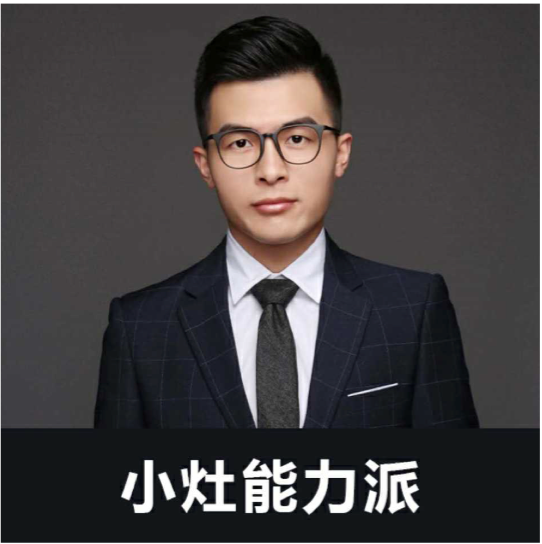
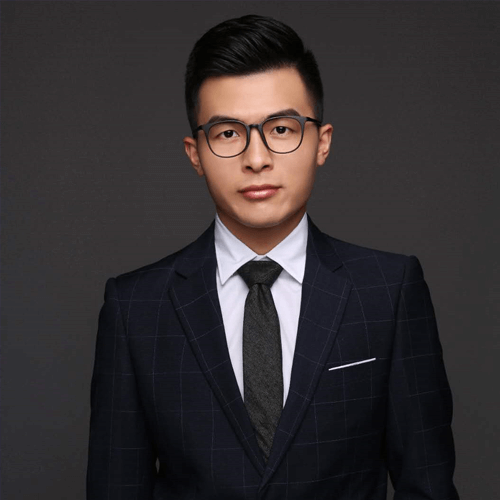
update: 添加图片 修改分享link #34

Changed region(s): [[0.0, 0.0, 1.0, 1.0], [0.63, 0.69, 0.75, 0.75], [0.39, 0.06, 0.42, 0.09]]

diff --git a/pages/payment/buygether.js b/pages/payment/buygether.js
@@ -131,8 +131,8 @@ export default class extends React.Component {
     let shareProp = {
       title: '邀请你和我一起参加线上学徒项目',
       desc: '6周全搞定：掌握实战技能+远程实习经历+探索职业兴趣+助教反馈指导',
-      link: 'https://rcwx.review.xiaozao.org/payment/buygether',
-      imgUrl: 'https://wx.xiaozao.org/static/img/abilitycollege/buyBg_1.png'
+      link: 'https://wx.xiaozao.org/payment/buygether',
+      imgUrl: 'https://wx.xiaozao.org/static/img/buygether/shareImg.png'
     }
     if (this.state.myGroupingId) {
       let nickname = encodeURI(encodeURI(this.nickname))
@@ -343,24 +343,6 @@ export default class extends React.Component {
     )
   }
 
-  renderBuyButton () {
-    if (this.state.myGroupingId === null) {
-      return (<div className='button'>
-        <Triangle
-          TriangleStyle={{top: '-8px', borderColor: 'transparent transparent #cba46b #cba46b'}}
-          style={{right: '60px', bottom: '-10px'}}>
-          团长开团立减10元
-        </Triangle>}
-        <Button style={this.buttonStyle} onClick={() => { this.buyMyGroup() }}>自己开团</Button>
-        <style jsx>{`
-        .button {
-          position: relative;
-        }
-      `}</style>
-      </div>)
-    }
-  }
-
   littleBuy = async (typeId, groupId, payInfo) => {
     // 1 调用小程序支付
     wxPay.payInit(payInfo)
@@ -557,7 +539,6 @@ export default class extends React.Component {
           justify-content: center;
         }
         .group-price div {
-          // flex-basis: 0;
           width: 70px;
         }
         .group-price span{
@@ -597,8 +578,8 @@ export default class extends React.Component {
   renderCourseInfo () {
     return (<div className='div-with-bottom'>
       {this.renderTitle('课程详情')}
-      <img src={'/static/img/buygether/intro_1.png'} />
-      <img src={'/static/img/buygether/intro_2.png'} />
+      <img src={'/static/img/buygether/intro_1.jpg'} />
+      <img src={'/static/img/buygether/intro_2.jpg'} />
       <style jsx>{`
         .div-with-bottom {
           padding-bottom: 10px;
@@ -685,11 +666,6 @@ export default class extends React.Component {
       bottom: '0px',
       backgroundColor: '#3e84e0'
     }
-    // let triangle = {
-    //   height: '50px',
-    //   lineHeight: '50px',
-    //   borderRadius: '50px'
-    // }
     let style = {}
     if (showHelpButtonPop) {
       style = {
@@ -697,13 +673,13 @@ export default class extends React.Component {
       }
     } else {
       style = {
-        transform: 'translateX(-300px)'
+        transform: 'ttranslateX(-300px)'
       }
     }
     return (
       <div style={style} className='pop-out-div' onClick={() => { HelpPopFunc() }}>
         <Triangle
-          TriangleStyle={{borderColor: '#3e84e0  transparent transparent #3e84e0'}}
+          triangleStyle={{borderColor: '#3e84e0  transparent transparent #3e84e0'}}
           style={borderStyle}>
           <div className='inner-content'>
             <img src='/static/img/buygether/headImg_help.png' />

diff --git a/containers/buygether/poptag.js b/containers/buygether/poptag.js
@@ -6,7 +6,7 @@ import React from 'react'
 export default class extends React.Component {
   render () {
     return (<div style={this.props.style} className='org_box'>
-      <span style={this.props.TriangleStyle} className='org_bot_cor'></span>
+      <span style={this.props.triangleStyle} className='org_bot_cor'></span>
       {this.props.children}
       <style jsx>{`
         .org_box{
